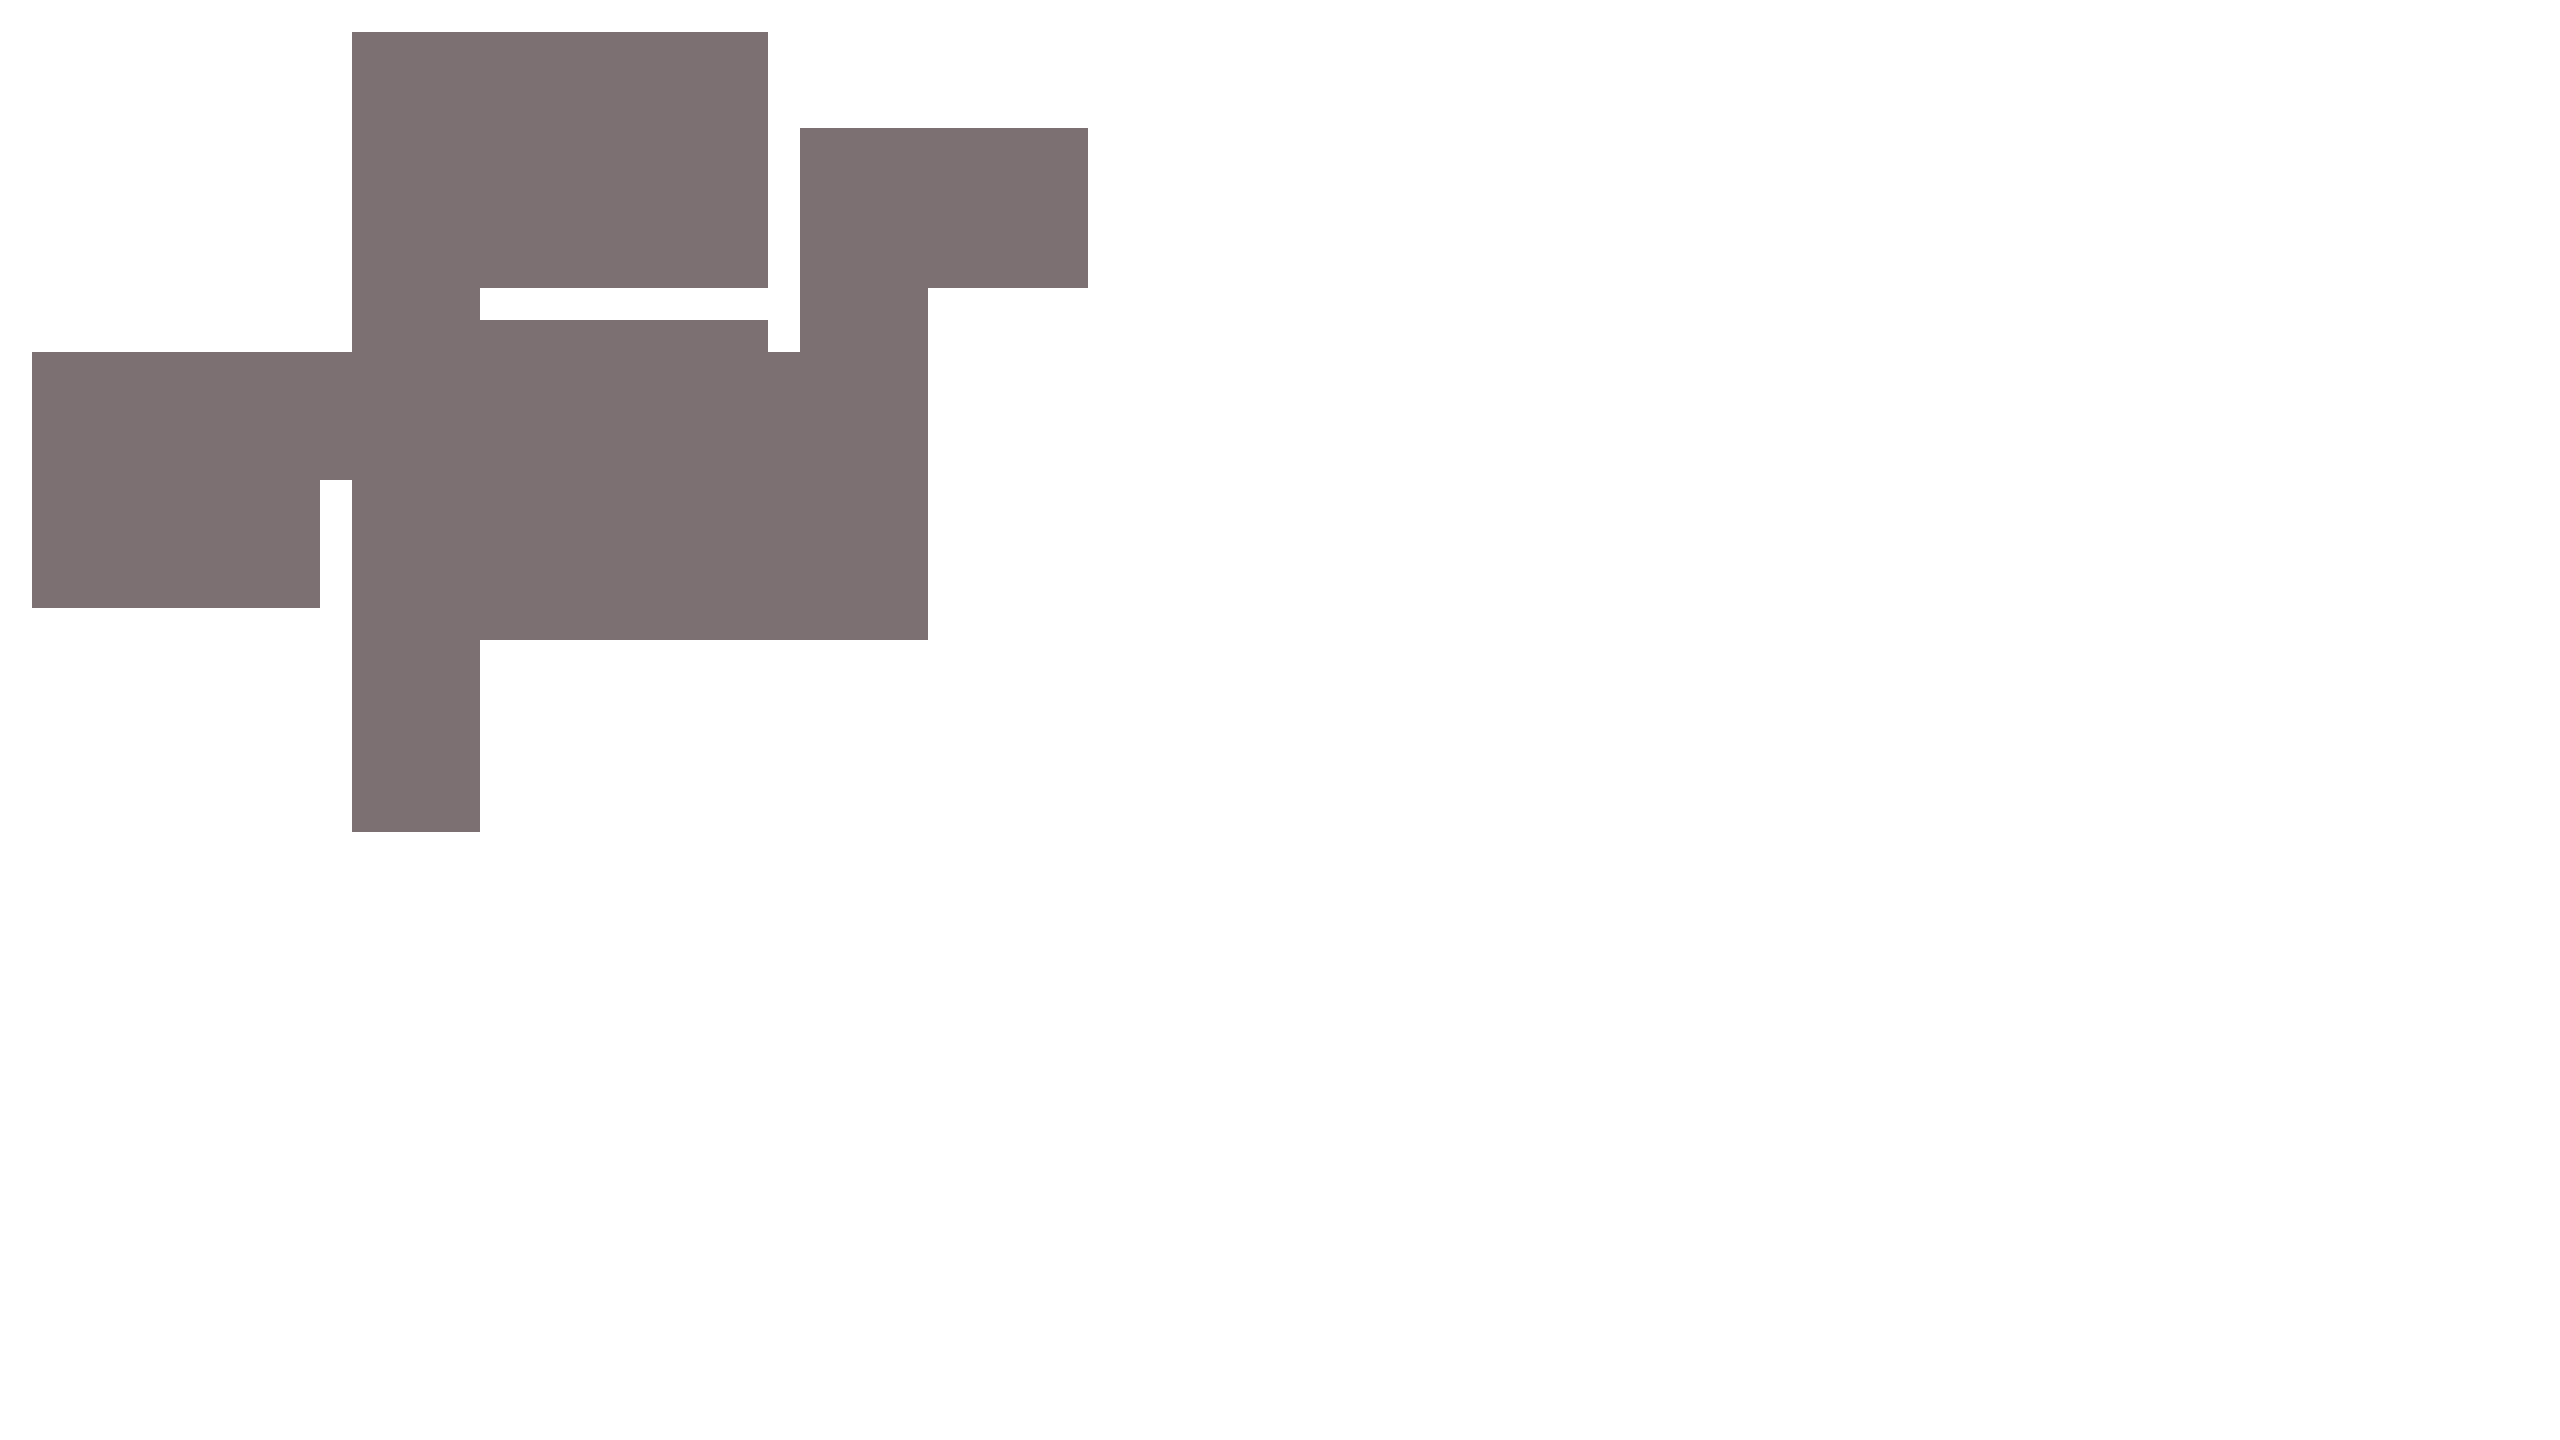
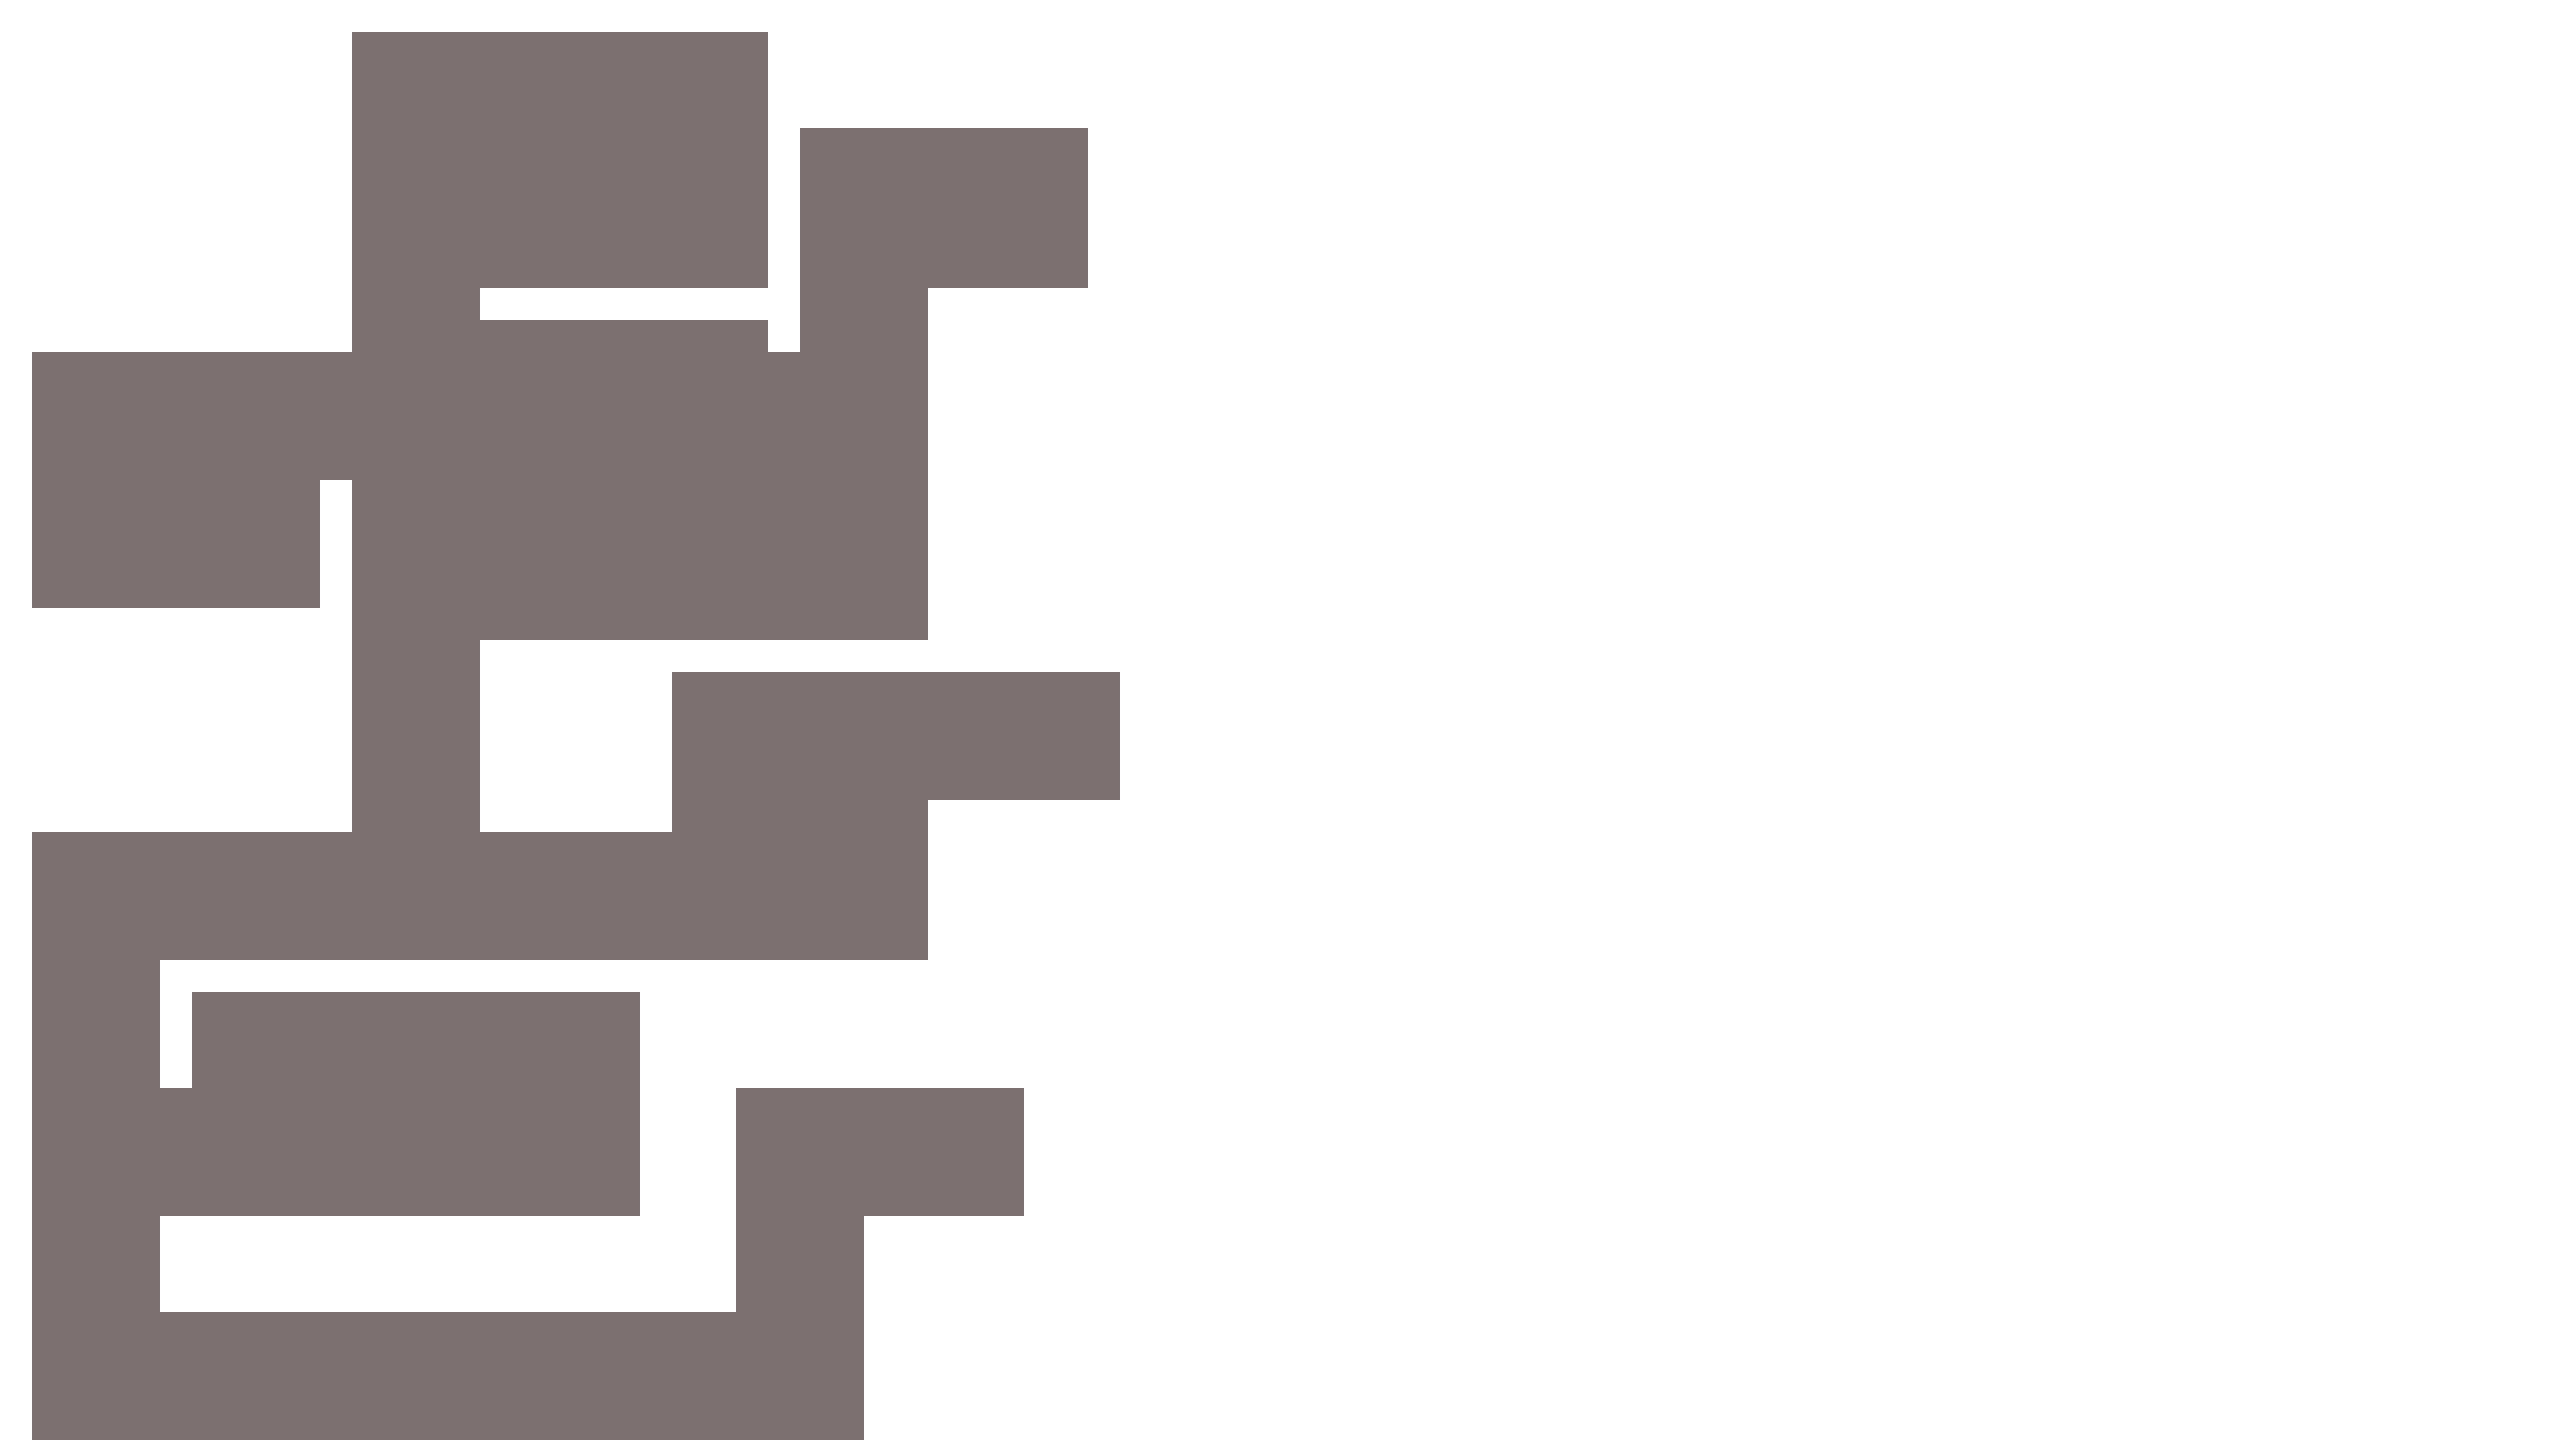
맵 업데이트

Changed region(s): [[0.0, 0.4688, 0.4375, 1.0]]

diff --git a/Main.py b/Main.py
@@ -113,7 +113,6 @@ try:
     running = True
     pygame.mouse.set_cursor(pygame.SYSTEM_CURSOR_CROSSHAIR)
     tile_mapDefaultBackground = pygame.transform.scale(pygame.image.load('.\\src\\img\\map_tile\\indiv_tile\\Tile7.png').convert(), [1280, 720])
-    #print(f'INFO: GameSetting: {GameSetting.PLAYER_START_X},\n{GameSetting.PLAYER_START_Y},\n{GameSetting.PLAYER_VIEW_SIZE},\n{GameSetting.PLAYER_SPEED},\n{GameSetting.BULLET_COOLDOWN},\n{GameSetting.BULLET_LIFETIME},\n{GameSetting.BULLET_SPEED},\n{GameSetting.BULLET_VIEWSIZE},\n{GameSetting.SHOW_CURRENTFPS}')
     
     if GameSetting.IFYOUKNOWWHATAREYOUDOINGRIGHTNOWTURNONTHISFORDEBUG:
         if GameSetting.SHOW_PLAYERMANA_CONSOLE == True and GameSetting.SHOW_CURRENTFPS == True:
@@ -182,11 +181,11 @@ try:
     toprightDownWall = pygame.image.load('.\\src\\img\\map_tile\\indiv_tile\\Tile4.png').convert_alpha()
     straightWall = pygame.image.load('.\\src\\img\\map_tile\\indiv_tile\\Tile6.png').convert_alpha()
     straightNonDownWall = pygame.image.load('.\\src\\img\\map_tile\\indiv_tile\\Tile9.png').convert_alpha()
-    topRightWall = pygame.image.load('.\\src\\img\\map_tile\\indiv_tile\\Tile1.png').convert_alpha()
+    topRightWall = pygame.image.load('.\\src\\img\\map_tile\\indiv_tile\\Tile10.png').convert_alpha()
     rightNonLeftWall = pygame.image.load('.\\src\\img\\map_tile\\indiv_tile\\Tile14.png').convert_alpha()
     topLeftWall = pygame.image.load('.\\src\\img\\map_tile\\indiv_tile\\Tile12.png').convert_alpha()
     leftNonRightWall = pygame.image.load('.\\src\\img\\map_tile\\indiv_tile\\Tile16.png').convert_alpha()
-    nonWall = pygame.image.load('.\\src\\img\\map_tile\\indiv_tile\\Tile10.png').convert_alpha()
+    nonWall = pygame.image.load('.\\src\\img\\map_tile\\indiv_tile\\Tile13.png').convert_alpha()
     voidWall = pygame.image.load('.\\src\\img\\map_tile\\void.png').convert_alpha()
 
     entity_Bullet = pygame.image.load('.\\src\\img\\animations\\object\\bullet\\BulletProjectile.png').convert_alpha()
@@ -469,7 +468,7 @@ class Player(pygame.sprite.Sprite): # player
             bulletGroup.add(self.bullet)
             allSpritesGroup.add(self.bullet)
             self.bulletLeft -= 1
-            sfx_handgunFire.play(0)
+            #sfx_handgunFire.play(0)
 
     def move(self):
         self.hitbox_rect.centerx += self.velocity_x
@@ -546,25 +545,57 @@ class Enemy(pygame.sprite.Sprite):
         self.isPlayerAlive = True
 
         self.damage = 5
+        self.direction_list = [(1,1), (1,-1), (-1,1), (-1,-1)]
+
+    def getNewPathTrace(self):
+        self.direction_index = random.randint(0, len(self.direction_list)-1)
+        self.steps = random.randint(3, 6) * GameSetting.TILESIZE
+
+    def check_collision(self, direction, move_state):
+        for sprite in obstaclesGroup:
+            if sprite.rect.colliderect(self.rect):
+                self.collide = True
+                if direction == "horizontal":
+                    if self.velocity.x > 0:
+                        self.rect.right = sprite.rect.left
+                    if self.velocity.x < 0:
+                        self.rect.left = sprite.rect.right 
+                if direction == "vertical":
+                    if self.velocity.y < 0:
+                        self.rect.top = sprite.rect.bottom
+                    if self.velocity.y > 0:
+                        self.rect.bottom = sprite.rect.top
+                if move_state == "roam":
+                    self.getNewPathTrace()
+
 
     def pathTracePlayer(self): # path tracing
-        if self.isPlayerAlive:
-            player_vector = pygame.math.Vector2(player.hitbox_rect.center)
-            enemy_vector = pygame.math.Vector2(self.rect.center)
-            distance = self.getVectorDistance(player_vector, enemy_vector)
-
-            if distance > 0:
-                self.direction = (player_vector - enemy_vector).normalize()
-            else:
-                self.direction = pygame.math.Vector2()
-            
-            self.velocity = self.direction * self.speed
-            self.position += self.velocity
-
-            self.rect.centerx = self.position.x
-            self.rect.centery = self.position.y
+        if self.velocity.x > 0:
+            self.current_movement_sprite = 0
         else:
-            pass
+            self.current_movement_sprite = 1
+        
+        player_vector = pygame.math.Vector2(player.rect.center)
+        enemy_vector = pygame.math.Vector2(self.rect.center)
+        distance = self.getVectorDistance(player_vector, enemy_vector)
+
+        if distance > 0:
+            self.direction = (player_vector - enemy_vector).normalize()
+        else:
+            self.direction = pygame.math.Vector2()
+
+        self.velocity = self.direction * self.speed
+        self.position += self.velocity
+
+        self.rect.centerx = self.position.x
+        self.checkCollision("horizontal", "hunt")
+
+        self.rect.centery = self.position.y
+        self.check_collision("vertical", "hunt")
+
+        self.rect.center = self.rect.center
+
+        self.position = (self.rec.centerx, self.rect.centery)
 
     def getVectorDistance(self, vector_1, vector_2):
         return (vector_1 - vector_2).magnitude()
@@ -725,8 +756,11 @@ else:
     isMainMenuScene = True
 
 def drawDeadScreen():
-        sfx_handgunFire.stop()
-        screen.blit(img_overlayDeadScreenBlack, (0, 0))
+    if not player.alive:
+        game_over_screen_fade = pygame.Surface((GameSetting.WIDTH, GameSetting.HEIGHT))
+        game_over_screen_fade.fill((0, 0, 0))
+        game_over_screen_fade.set_alpha(160)
+        screen.blit(game_over_screen_fade, (0, 0))
 
 def gameDemo(): # main game
         print('INFO: Starting..')
@@ -758,8 +792,9 @@ def gameDemo(): # main game
             hud_debugFpsScreen = defaultBulletFont.render(f'{math.ceil(clock.get_fps())}FPS (반올림됨, 높을수록 좋음)', True, WHITE)
             hud_debugMilliTickScreen = defaultBulletFont.render(f'{math.ceil(clock.get_rawtime())}TICK (반올림됨, 낮을수록 좋음)', True, WHITE)
             hud_bulletLeft = defaultBulletFont.render(str(LoadedHandgunBullet), True, WHITE)
-            hud_debugMapInfoScreen = defaultBulletFont.render('현재 "dev_test.csv" 불러와짐', True, WHITE)
+            hud_debugMapInfoScreen = defaultBulletFont.render(f'현재 "dev_test_Boundary.csv, dev_test_Enemy.csv, dev_test_Health.csvm dev_test_Walls.csv" 불러와짐', True, WHITE)
             hud_debugVerInfoScreen = defaultCopyrightFont.render(f'spsro Engine ver {GameSetting.VER}, using some files from pygame 2.5.0', True, WHITE)
+            hud_debugScreenResInfoScreen = defaultBulletFont.render(f'{GameSetting.WIDTH} x {GameSetting.HEIGHT} 해당도로 플레이중 (최대 {GameSetting.DEF_FPS}FPS)', True, WHITE)
 
             if clock.get_fps() <= 30:
                 hud_debugFpsScreen = defaultBulletFont.render(f'{math.ceil(clock.get_fps())}FPS (반올림됨, 높을수록 좋음)', True, ORANGE)
@@ -788,7 +823,8 @@ def gameDemo(): # main game
                     screen.blit(hud_debugMilliTickScreen, [30, 120])
                     screen.blit(hud_playerMana, [30, 145])
                     screen.blit(hud_debugMapInfoScreen, [30, 170])
-                    screen.blit(hud_debugVerInfoScreen, [30, 195])
+                    screen.blit(hud_debugVerInfoScreen, [30, 215])
+                    screen.blit(hud_debugScreenResInfoScreen, [30, 195])
             else:
                 pass
 
@@ -809,12 +845,35 @@ def mainMenu(): # main menu
         screen.blit(text_copyrightTeamName, [985, 650])
         screen.blit(text_mainMenuMotd, [32, 83])
 
+        # debug info update
+        hud_playerMana = defaultBulletFont.render(f'{str(player.playerMana)}%', True, WHITE)
+        hud_debugFpsScreen = defaultBulletFont.render(f'{math.ceil(clock.get_fps())}FPS (반올림됨, 높을수록 좋음)', True, WHITE)
+        hud_debugMilliTickScreen = defaultBulletFont.render(f'{math.ceil(clock.get_rawtime())}TICK (반올림됨, 낮을수록 좋음)', True, WHITE)
+        hud_debugMapInfoScreen = defaultBulletFont.render('불러온 맵이 없음', True, WHITE)
+        hud_debugVerInfoScreen = defaultCopyrightFont.render(f'spsro Engine ver {GameSetting.VER}, using some files from pygame 2.5.0', True, WHITE)
+
+        if clock.get_fps() <= 30:
+            hud_debugFpsScreen = defaultBulletFont.render(f'{math.ceil(clock.get_fps())}FPS (반올림됨, 높을수록 좋음)', True, ORANGE)
+        elif clock.get_fps() <= 20:
+            hud_debugFpsScreen = defaultBulletFont.render(f'{math.ceil(clock.get_fps())}FPS (반올림됨, 높을수록 좋음)', True, (235, 232, 52))
+        elif clock.get_fps() <= 10:
+            hud_debugFpsScreen = defaultBulletFont.render(f'{math.ceil(clock.get_fps())}FPS (반올림됨, 높을수록 좋음)', True, RED)
+            
         if GameSetting.IFYOUKNOWWHATAREYOUDOINGRIGHTNOWTURNONTHISFORDEBUG:
-            screen.blit(showIfDebugging, [985, 630])
+            screen.blit(showIfDebugging, [30, 67])
+            if GameSetting.ISPRODUCTMODE == False:
+                screen.blit(showIfNonProductMode, [30, 640])
+
             if GameSetting.SHOW_CURRENTFPS == True:
-                pygame.display.set_caption(f"FPS: {clock.get_fps()}")
+                    pygame.display.set_caption(f"FPS: {clock.get_fps()}")
             else:
                 pass
+            if GameSetting.SHOW_DEBUGINFO_TOSCREEN == True:
+                screen.blit(hud_debugFpsScreen, [30, 97])
+                screen.blit(hud_debugMilliTickScreen, [30, 120])
+                screen.blit(hud_playerMana, [30, 145])
+                screen.blit(hud_debugMapInfoScreen, [30, 170])
+                screen.blit(hud_debugVerInfoScreen, [30, 195])
         else:
             pass
 

diff --git a/GameSetting.py b/GameSetting.py
@@ -4,7 +4,7 @@ from pygame.locals import *
 WIDTH = 1280
 HEIGHT = 720
 DEF_FPS = 60
-VER = '1.3'
+VER = '1.5.3'
 MOTD = {
     '버그가 있거나, 피드백을 주고 싶으세요? 저희 디스코드에 들어와보세요!',
     '여전히 플레이 하고 있으시네요!',
@@ -18,7 +18,7 @@ MOTD = {
     f'여전히 {VER} 버전을 사용하고 있으시네요!',
     '혹시 지금 쓰는 버전이 데모버전이라는건 알고게시나요?',
     '데모!',
-    'PYRO GAMING',
+    '이 게임은 원래 도전과제가 있다는걸 알고게시나요?',
     '이 메세지가 반복될수도 있을수도..',
     '이러한 메세지를 MOTD(Message Of The Day)이라고 불리는걸 아시나요?'
 }
@@ -50,7 +50,7 @@ DRAW_GREYBACKGROUND_ASVOID = True
 YES_THIS_IS_DEBUGGER_IDC = False
 SHOW_DEBUGINFO_TOSCREEN = True
 SHOW_COLLISION_BOXES = True
-ISPRODUCTMODE = True
+ISPRODUCTMODE = False
 
 # Bullet
 BULLET_COOLDOWN = 15
